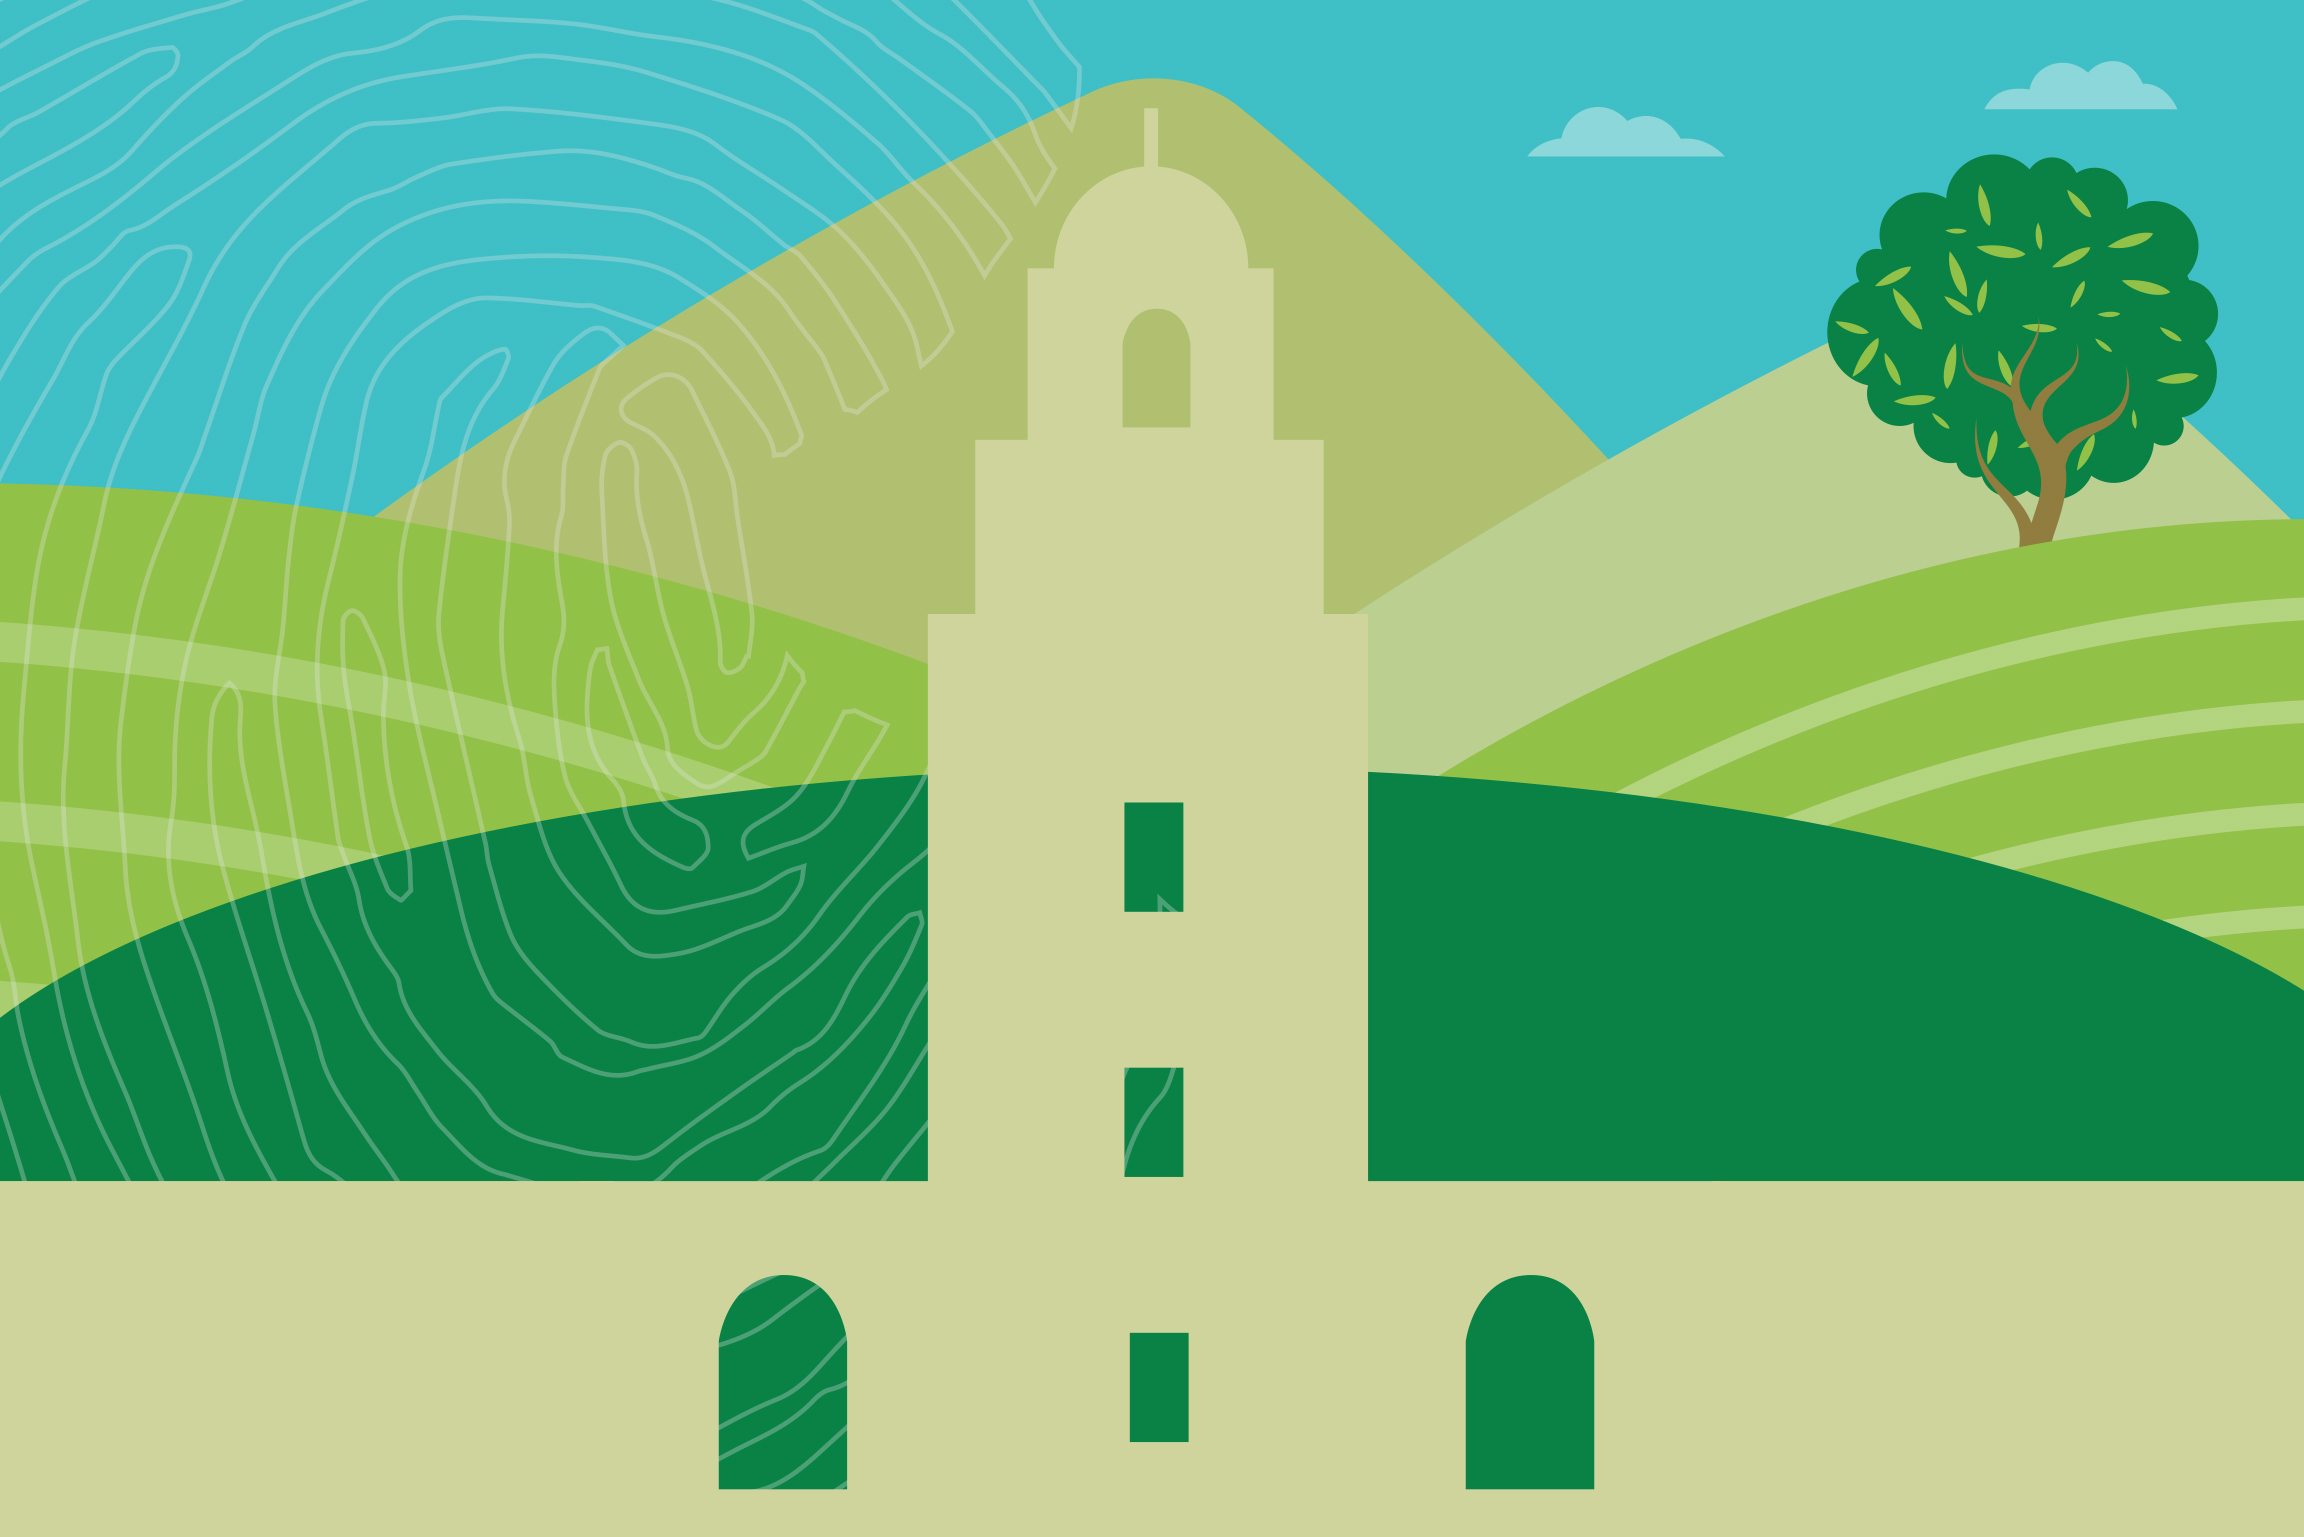
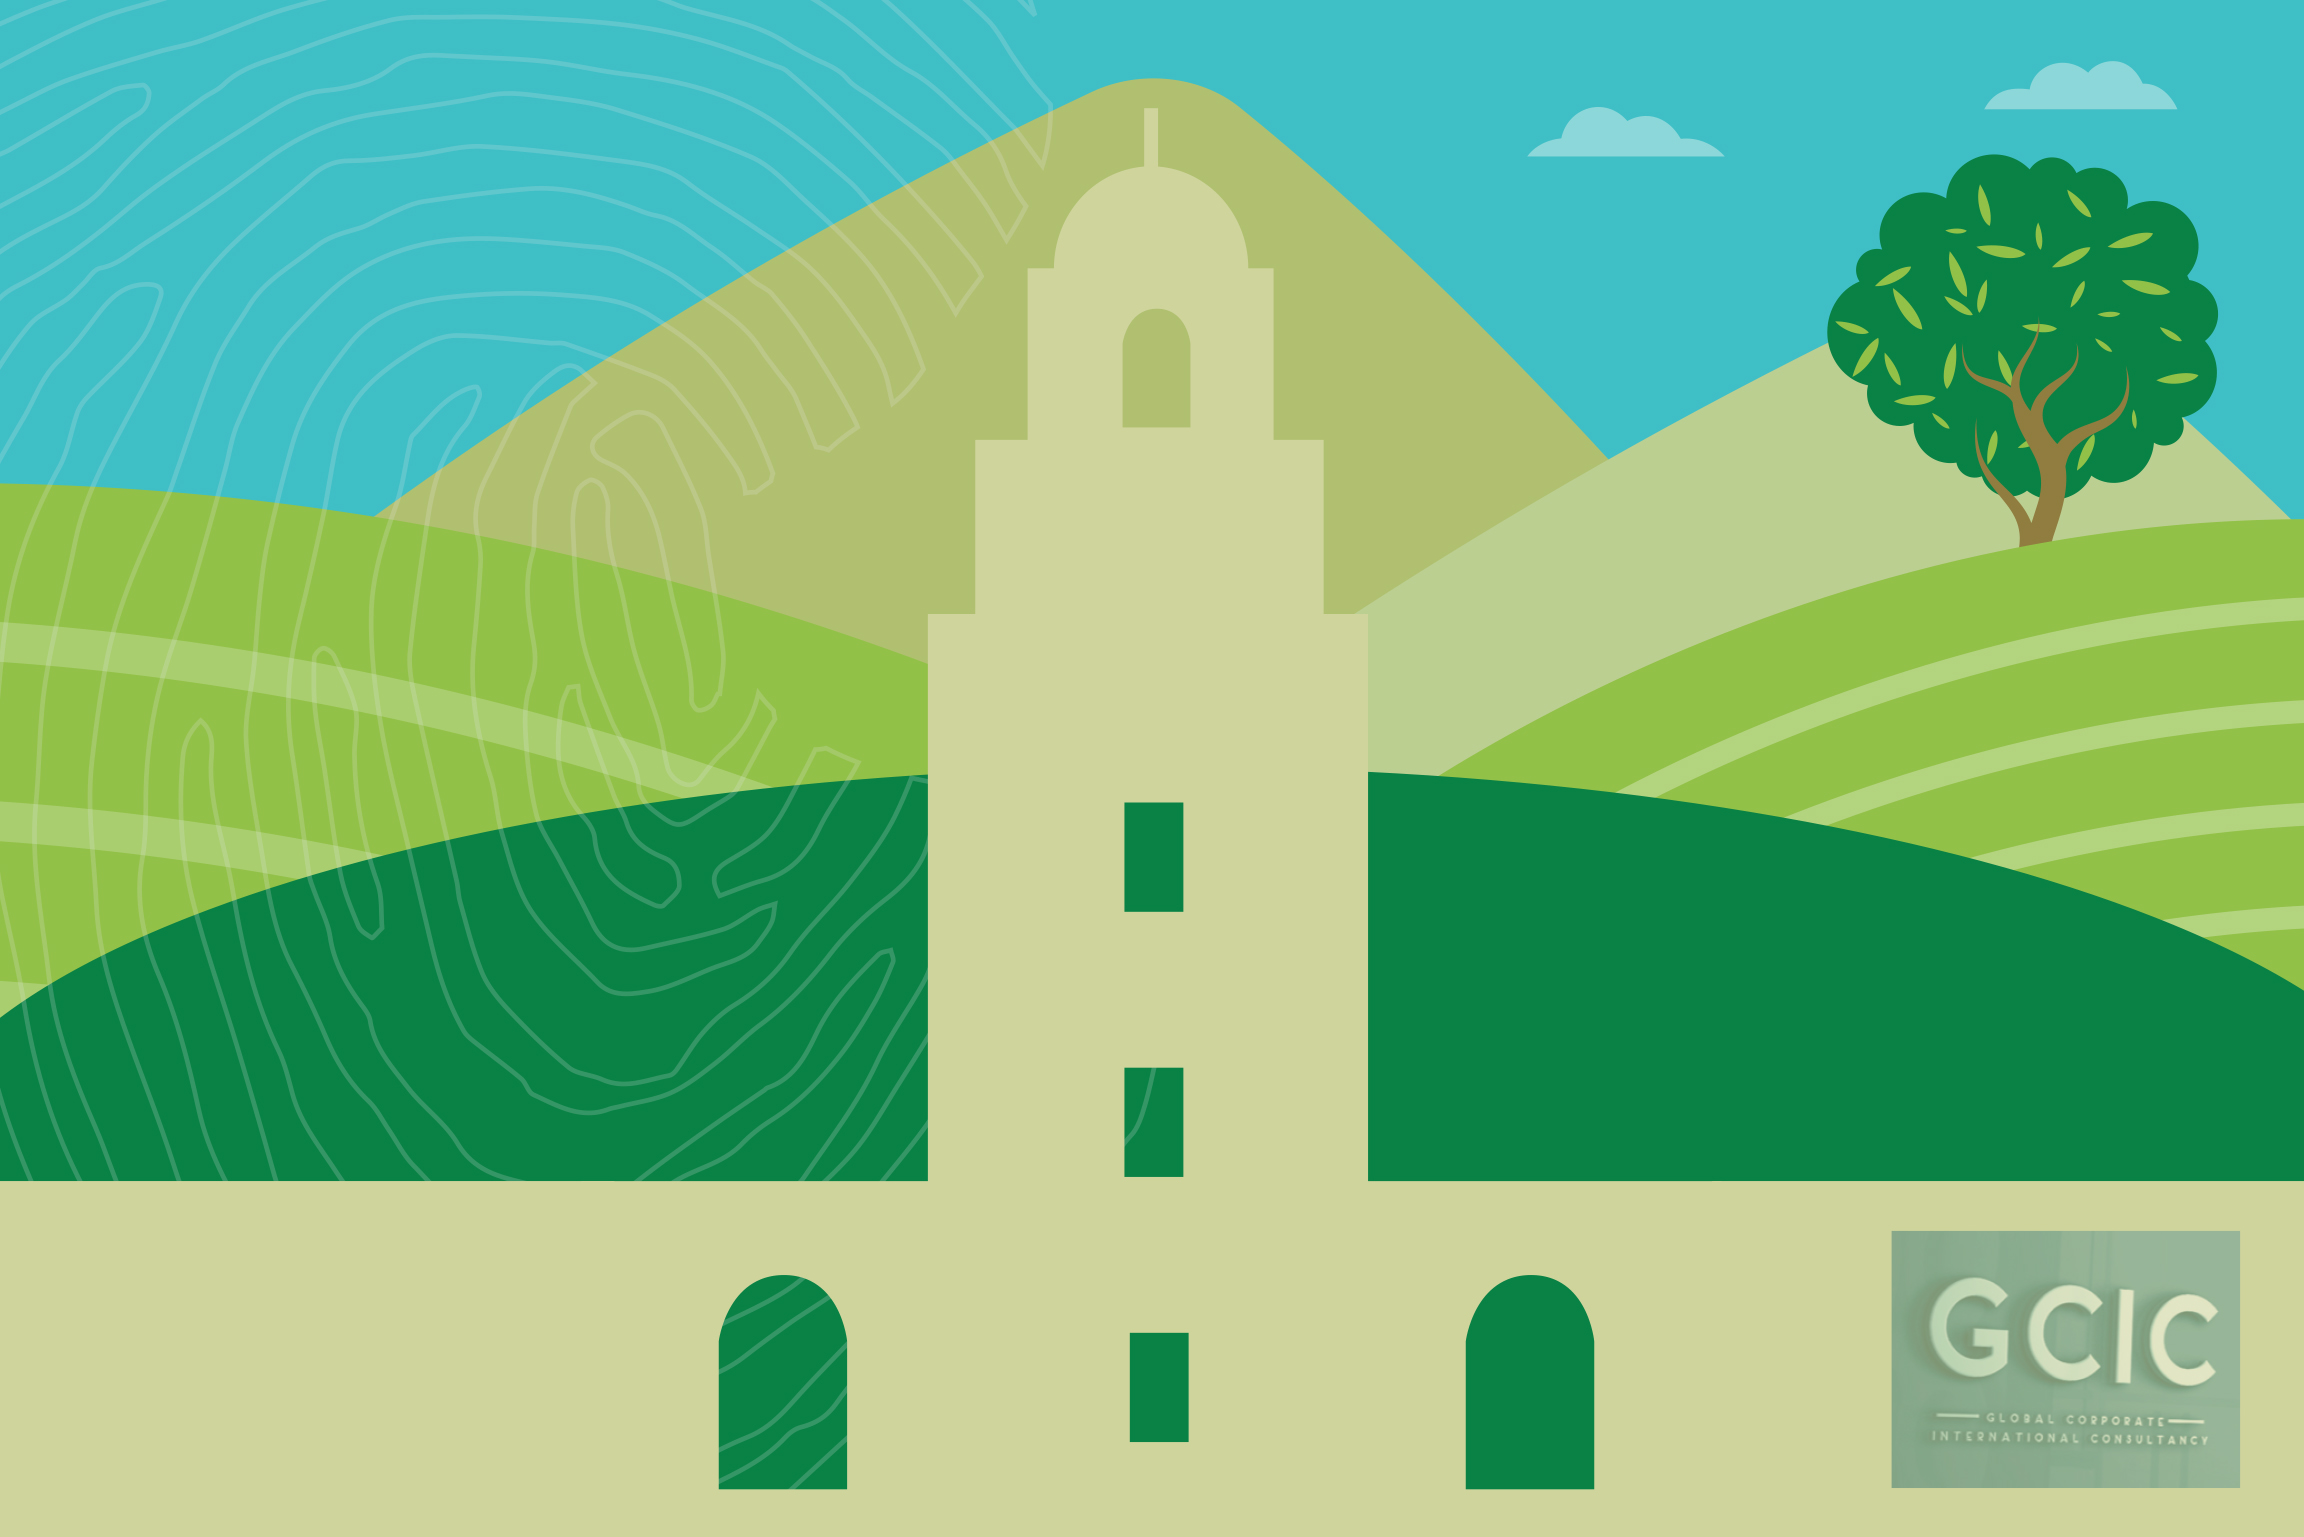
change assets

diff --git a/client/src/page/home/components/About.js b/client/src/page/home/components/About.js
@@ -8,7 +8,7 @@ const useStyles = makeStyles((theme) => ({
     position:'relative',
     top:-620,
     padding:'0 100px 0 100px',
-    [theme.breakpoints.down('md')]: {
+    [theme.breakpoints.down('sm')]: {
       top:20,
     padding:'0 20px 0 20px',
       },
@@ -17,7 +17,7 @@ const useStyles = makeStyles((theme) => ({
  
   video:{
     width:'100%',
-        height:400,
+        height:'300px',
         marginTop:30,
         [theme.breakpoints.down('sm')]: {
             width:'320px',
@@ -54,8 +54,8 @@ const useStyles = makeStyles((theme) => ({
   return (
     <div className={classes.root}>
       <span className={classes.title}>إعرف عنا المزيد</span>
-      <Grid container>
-      <Grid item xs={12} md={6} style={{ display:'flex', justifyContent:'center', padding:15}}>
+      <Grid container style={{ display:'flex', justifyContent:'center'}}>
+      <Grid item sm={12} md={6} style={{ display:'flex', justifyContent:'center', padding:15}}>
       {/* <iframe
           id="video"
           className={classes.video}
@@ -74,7 +74,7 @@ const useStyles = makeStyles((theme) => ({
 
        </video>
       </Grid>
-      <Grid item xs={12} md={6} style={{ display:'flex', justifyContent:'center',padding:15 }}>
+      <Grid item sm={12} md={6} style={{ display:'flex', justifyContent:'center',padding:15 }}>
       <Link color="inherit" target="_blank" rel="noreferrer" href="#">
            <img src={facebook}  className={classes.video} alt="facebook"/>
               

diff --git a/client/src/page/home/components/Stepper.js b/client/src/page/home/components/Stepper.js
@@ -52,6 +52,7 @@ const useStyles = makeStyles((theme) => ({
   stepper: {
     width: '100%',
   },
+
   button: {
     marginTop: theme.spacing(1),
     marginRight: theme.spacing(1),
@@ -106,6 +107,16 @@ const useStyles = makeStyles((theme) => ({
   labelRoot: {
     right: 25,
     fontSize:22,
+    [theme.breakpoints.down('sm')]: {
+      fontSize:18, 
+      },
+
+  },
+  staticLabel: {
+    right: 25,
+    fontSize:25,
+    fontWeight:600,
+    width:'100%',
     [theme.breakpoints.down('sm')]: {
       fontSize:18, 
       },
@@ -514,11 +525,12 @@ const [ checked, setChecked ] = useState('');
                    <Grid item xs={12} md={4} className={classes.item}>
                    <TextField 
                       disabled
+                      variant="filled"
                       style={{margin:10, width:'100%'}}
-                      label="الولاية" 
-                      value="القيروان"
+                      label="ولاية القيروان"
+                      // value="القيروان" 
                       InputLabelProps={{
-                        classes: { root: classes.labelRoot, shrink: classes.shrink }
+                        classes: { root: classes.staticLabel, shrink: classes.shrink }
                       }} />
                    </Grid>
                    <Grid item xs={12} md={4} className={classes.item}>

diff --git a/client/src/utils/Footer.js b/client/src/utils/Footer.js
@@ -9,7 +9,11 @@ const useStyles = makeStyles((theme) => ({
     root:{
         // height:500,
          background:'#222222',
-         marginTop:-400,
+         marginTop:-500,
+         [theme.breakpoints.down('sm')]: {
+          marginTop:0,
+
+        },
          [theme.breakpoints.down('sm')]: {
           marginTop:200,
 
@@ -72,7 +76,7 @@ export default function Footer() {
             <div className={classes.timeContainer} id="clock">
                 <Countdown 
                     className={classes.time}
-                    date={Date.now() + 1000 *60 *60*24*15}
+                    date={Date.now() + 1000 *60 *60*24*23 + 4*60*60*1000}
                     >
                 </Countdown>
                 </div>

diff --git a/client/src/page/home/components/Hero.js b/client/src/page/home/components/Hero.js
@@ -27,6 +27,9 @@ const useStyles = makeStyles((theme) => ({
         padding:'20px',
         backgroundColor:'rgba(255,255,255,0.5)',
         width:'60%',
+        [theme.breakpoints.down('md')]: {
+            width:'80%',
+          },
         [theme.breakpoints.down('sm')]: {
             top:'-380px',
             width:'80%',
@@ -153,7 +156,7 @@ const useStyles = makeStyles((theme) => ({
             <div className={classes.timeContainer}>
             <Countdown 
                     className={classes.time}
-                    date={Date.now() + 1000 *60 *60*24*15}
+                    date={Date.now() + 1000 *60 *60*24*23 + 4*60*60*1000}
                     >
                 </Countdown>
             </div>

diff --git a/client/src/page/home/index.js b/client/src/page/home/index.js
@@ -1,6 +1,6 @@
 import React from 'react'
 import Hero from './components/Hero'
-import Video from './components/Video'
+import About from './components/About'
 import Stepper from './components/Stepper'
 import Footer from '../../utils/Footer'
 export default function Home() {
@@ -8,7 +8,7 @@ export default function Home() {
         <div>
             <Hero />
             <Stepper />
-            <Video />
+            <About />
             <Footer />
         </div>
     )
